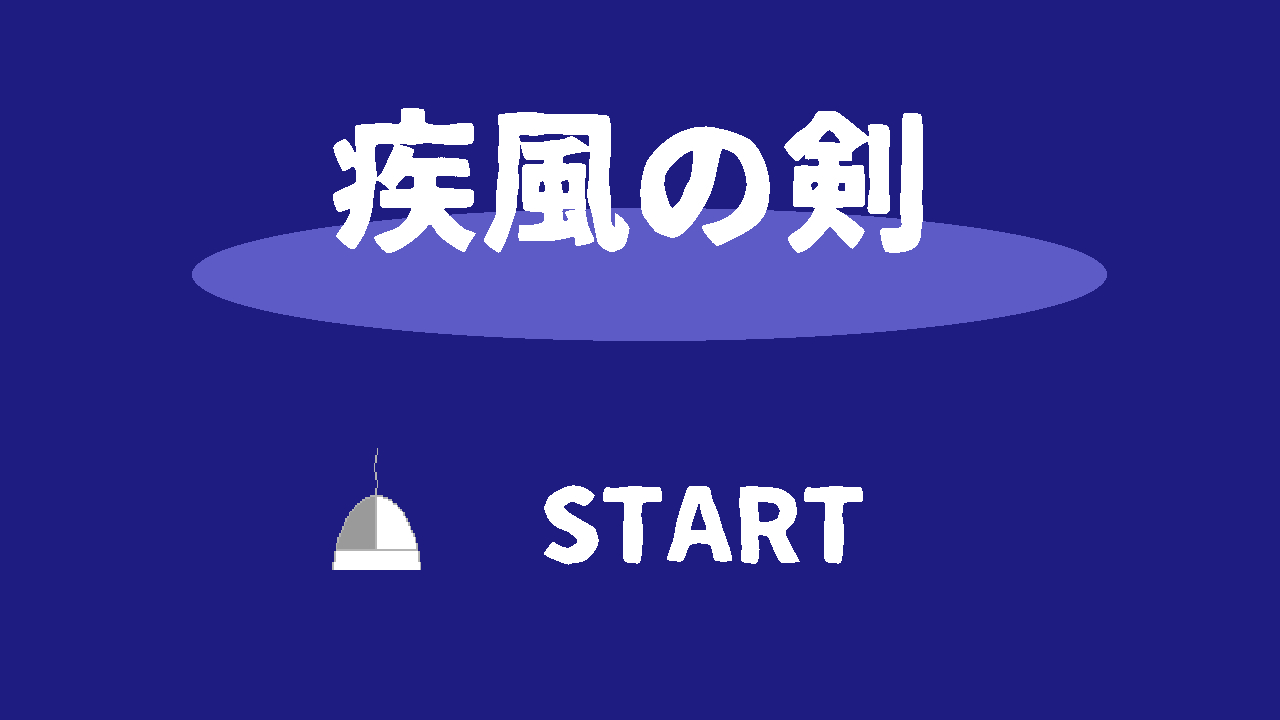
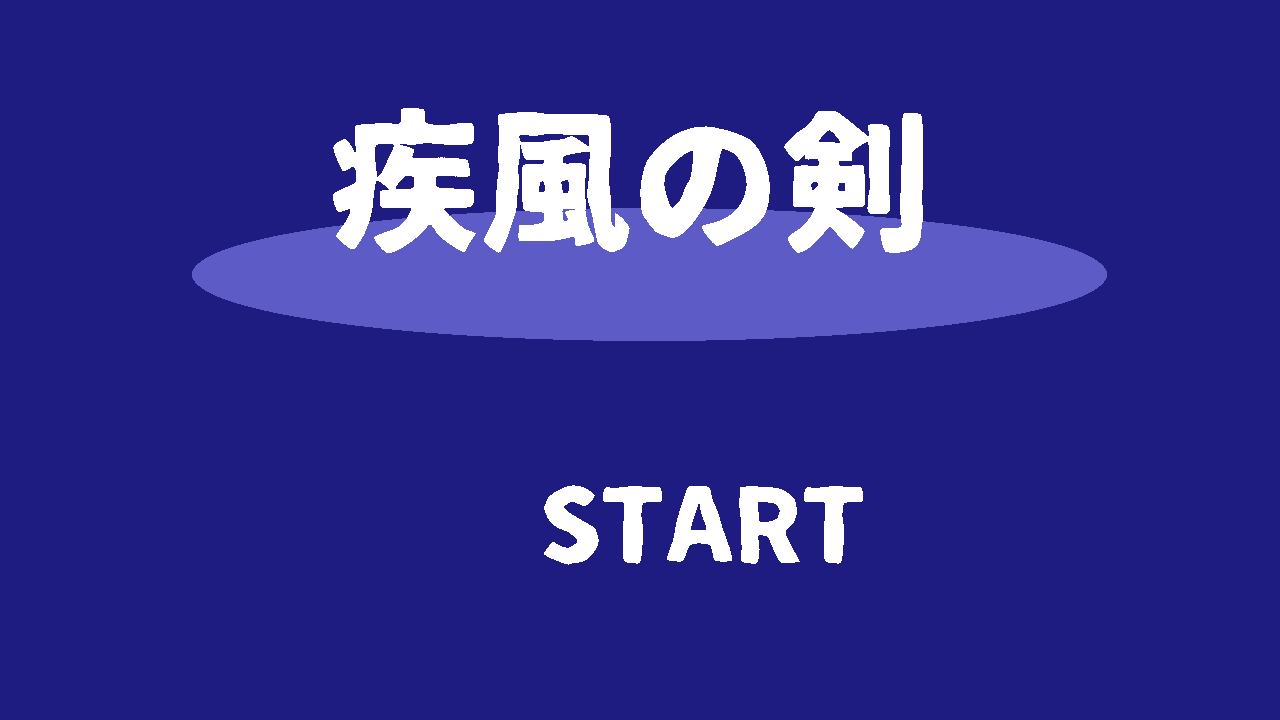
タイトル画面の操作説明切り替え

Changed region(s): [[0.25, 0.6722, 0.3438, 0.7944]]

diff --git a/Application/Scene/TitleScene.cpp b/Application/Scene/TitleScene.cpp
@@ -37,6 +37,15 @@ void TitleScene::Initialize()
 	fadeTex = TextureManager::GetInstance()->LoadTexture("Resources/DefaultAssets/black.png");
 	fadeSprite.reset(Sprite::Create(fadeTex));
 
+	UI_MouseTex = TextureManager::GetInstance()->LoadTexture("Resources/UI_MouseLeftClick.png");
+	UI_Mouse.reset(Sprite::Create(UI_MouseTex));
+	UI_Mouse->SetPosition({ 370.0f,450.0f });
+
+	UI_GamePadABottonTex = TextureManager::GetInstance()->LoadTexture("Resources/UI_ABotton.png");
+	UI_GamePadABotton.reset(Sprite::Create(UI_GamePadABottonTex));
+	UI_GamePadABotton->SetPosition({ 370.0f,470.0f });
+	UI_GamePadABotton->worldTransform_->scale_ = { 0.1f,0.1f };
+
 	fadeSprite->SetSize({ 1280,720 });
 	fadeSprite->SetisInvisible(true);
 	alpha = 0;
@@ -49,6 +58,18 @@ void TitleScene::Update()
 
 	//ゲームパットの状態を得る変数(XINPUT)
 	XINPUT_STATE joyState;
+
+	if (Input::GetInstance()->GetJoystickState(0, joyState))
+	{
+		UI_GamePadABotton->SetisInvisible(false);
+		UI_Mouse->SetisInvisible(true);
+	}
+	else
+	{
+		UI_GamePadABotton->SetisInvisible(true);
+		UI_Mouse->SetisInvisible(false);
+	}
+
 
 	if (Input::GetInstance()->GetJoystickState(0, joyState))
 	{
@@ -85,6 +106,9 @@ void TitleScene::Update()
 
 	titleSprite->Update();
 	fadeSprite->Update();
+	UI_Mouse->Update();
+	UI_GamePadABotton->Update();
+
 
 }
 
@@ -97,6 +121,8 @@ void TitleScene::Draw()
 	slashingEffect->Draw();
 
 	titleSprite->Draw(camera);
+	UI_Mouse->Draw(camera);
+	UI_GamePadABotton->Draw(camera);
 	fadeSprite->Draw(camera);
 
 }

diff --git a/Application/Scene/TitleScene.h b/Application/Scene/TitleScene.h
@@ -47,9 +47,14 @@ private:
 
 	uint32_t fadeTex;
 	uint32_t titleTex;
+	uint32_t UI_MouseTex;
+	uint32_t UI_GamePadABottonTex;
+	
 
 	std::unique_ptr<Sprite>fadeSprite = nullptr;
 	std::unique_ptr<Sprite>titleSprite = nullptr;
+	std::unique_ptr<Sprite>UI_Mouse = nullptr;
+	std::unique_ptr<Sprite>UI_GamePadABotton = nullptr;
 
 	float alpha = 0;
 	bool isFadingIn = false;

diff --git a/Application/Object/Player/Player.h b/Application/Object/Player/Player.h
@@ -76,7 +76,7 @@ private:
 	// レベルアップ時のHP増加量
 	const int HPIncreasePerLevel = 2000;
 	// レベルアップ時の攻撃力増加量
-	const int AttackPowerIncreasePerLevel = 100;
+	const int AttackPowerIncreasePerLevel = 5;
 
 	int HP = 5000;
 	float angle_ = 0.0f;
